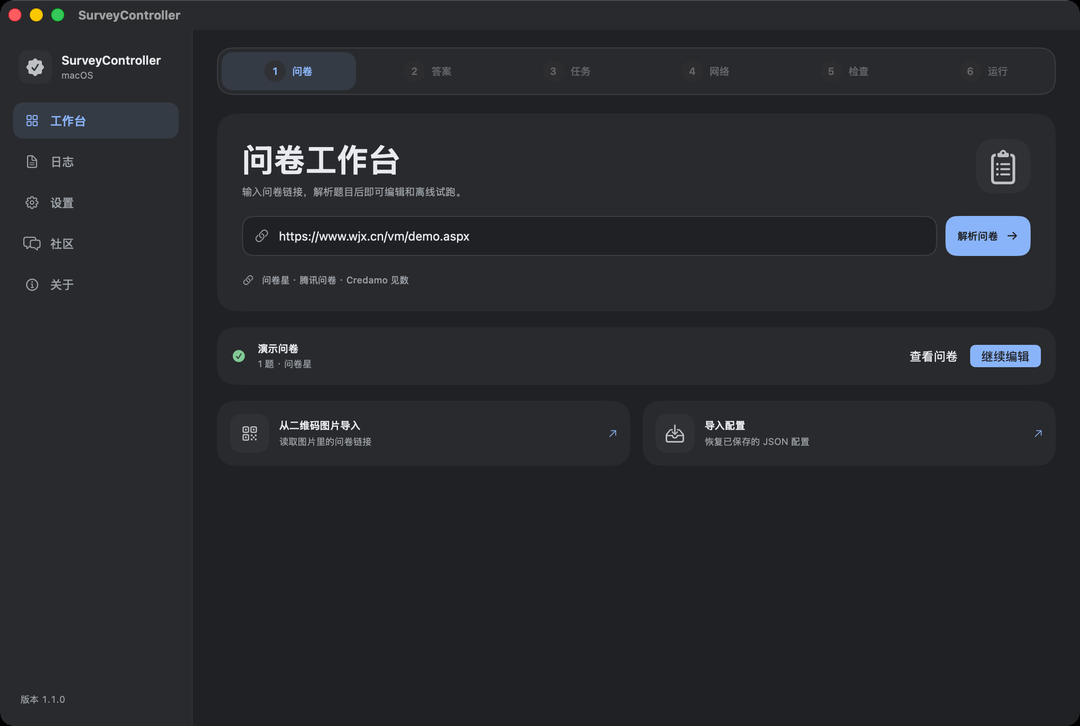
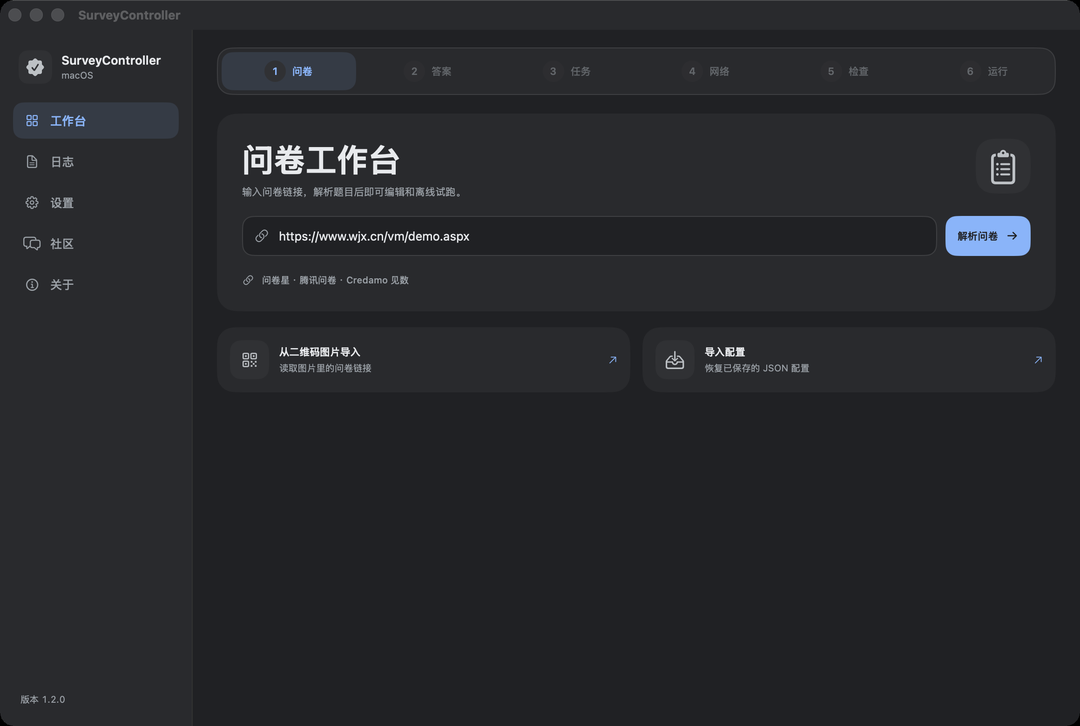
chore: 准备 Mac v1.2.0 发布

diff --git a/SurveyController/App/AppVersion.swift b/SurveyController/App/AppVersion.swift
@@ -6,7 +6,7 @@ import Foundation
 /// 应用版本与 GitHub 仓库信息。
 public enum AppVersion {
     /// 当前版本（与 MARKETING_VERSION 同步）。
-    public static let version = "1.1.0"
+    public static let version = "1.2.0"
     /// 当前对齐的官方桌面端版本。
     public static let alignedOfficialVersion = "5.0.1"
 

diff --git a/AGENTS.md b/AGENTS.md
@@ -8,7 +8,7 @@
 - **项目性质**：SurveyController 官方 Windows 桌面端的 **macOS 端独立移植版**
 - **GitHub 仓库**：https://github.com/SurveyController/SurveyController-Mac
 - **License**：GPL-3.0（与官方一致）
-- **当前版本**：v1.1.0（官方桌面 v5.0.1，跟进 Windows a23e35f 与核心库 299b6bf）
+- **当前版本**：v1.2.0（官方桌面 v5.0.1，跟进 Windows a23e35f 与核心库 299b6bf）
 
 ## 官方源仓库
 
